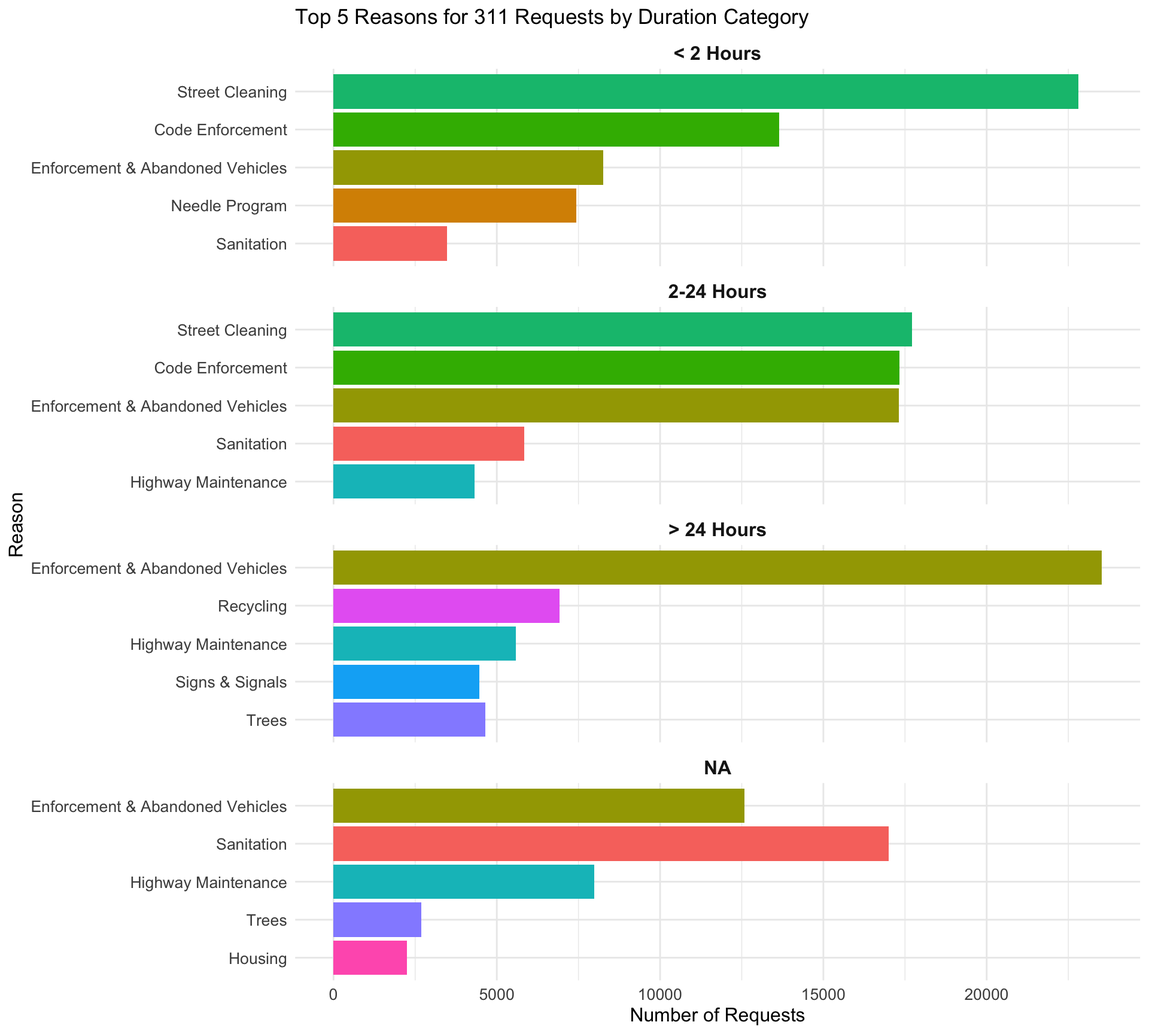
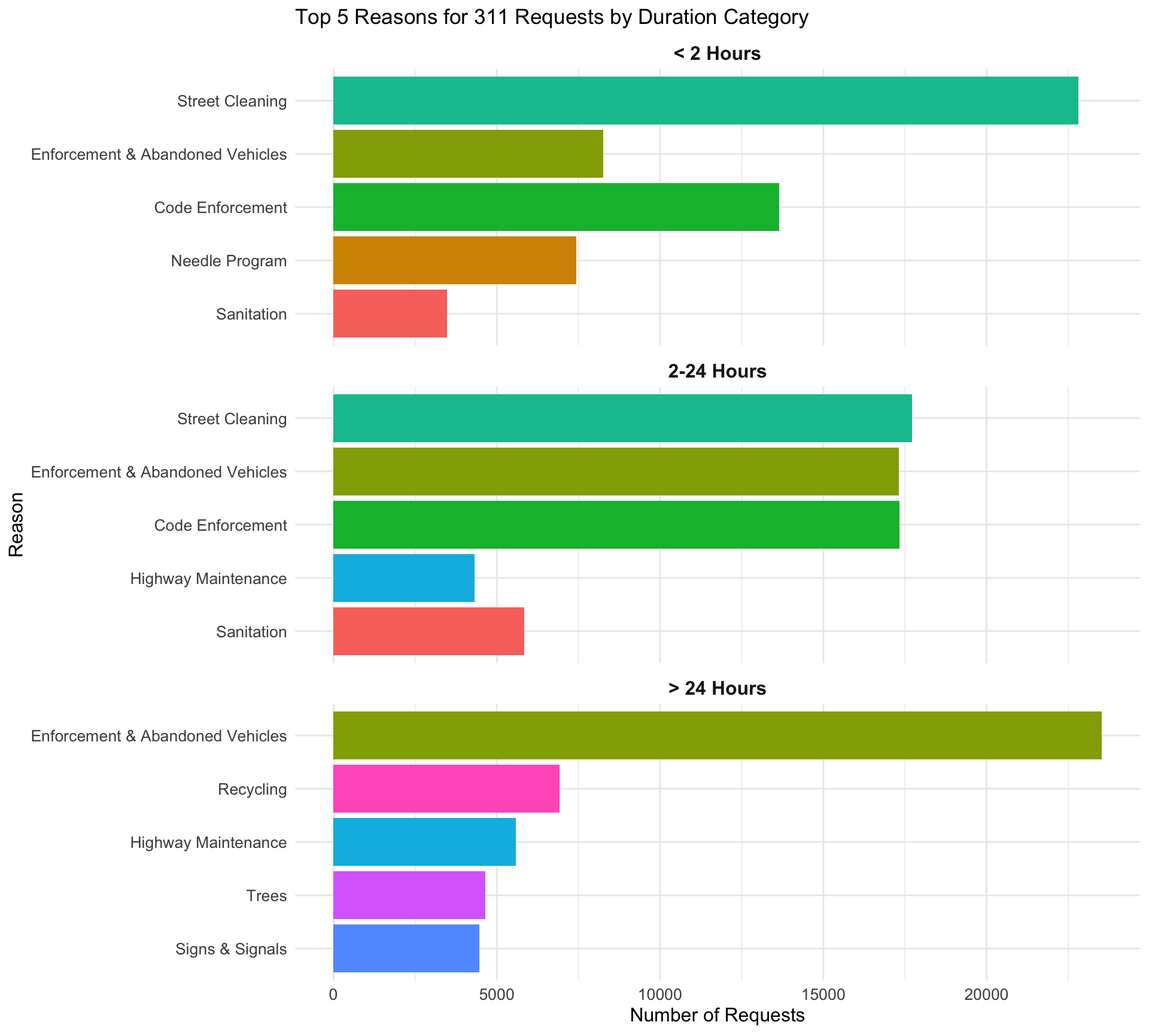
conclusion

diff --git a/docs/results.html b/docs/results.html
@@ -521,22 +521,25 @@ pre > code.sourceCode > span > a:first-child::before { text-decoration: underlin
 <span id="cb9-24"><a href="#cb9-24" aria-hidden="true" tabindex="-1"></a>  <span class="fu">mutate</span>(<span class="at">reason =</span> <span class="fu">fct_reorder</span>(reason, count)) <span class="sc">|&gt;</span></span>
 <span id="cb9-25"><a href="#cb9-25" aria-hidden="true" tabindex="-1"></a>  <span class="fu">ungroup</span>()</span>
 <span id="cb9-26"><a href="#cb9-26" aria-hidden="true" tabindex="-1"></a></span>
-<span id="cb9-27"><a href="#cb9-27" aria-hidden="true" tabindex="-1"></a><span class="co"># 3. Create the faceted bar chart</span></span>
-<span id="cb9-28"><a href="#cb9-28" aria-hidden="true" tabindex="-1"></a><span class="fu">ggplot</span>(top_reasons, <span class="fu">aes</span>(<span class="at">x =</span> <span class="fu">fct_reorder</span>(reason, count), <span class="at">y =</span> count, <span class="at">fill =</span> reason)) <span class="sc">+</span></span>
-<span id="cb9-29"><a href="#cb9-29" aria-hidden="true" tabindex="-1"></a>  <span class="fu">geom_bar</span>(<span class="at">stat =</span> <span class="st">"identity"</span>, <span class="at">show.legend =</span> <span class="cn">FALSE</span>) <span class="sc">+</span>          <span class="co"># Create bars without legend</span></span>
-<span id="cb9-30"><a href="#cb9-30" aria-hidden="true" tabindex="-1"></a>  <span class="fu">facet_wrap</span>(<span class="sc">~</span> duration_category, <span class="at">scales =</span> <span class="st">"free_y"</span>, <span class="at">ncol=</span><span class="dv">1</span>) <span class="sc">+</span>        <span class="co"># Facet by duration category with free y-scales</span></span>
-<span id="cb9-31"><a href="#cb9-31" aria-hidden="true" tabindex="-1"></a>  <span class="fu">coord_flip</span>() <span class="sc">+</span>                                              <span class="co"># Flip coordinates for better readability</span></span>
-<span id="cb9-32"><a href="#cb9-32" aria-hidden="true" tabindex="-1"></a>  <span class="fu">labs</span>(</span>
-<span id="cb9-33"><a href="#cb9-33" aria-hidden="true" tabindex="-1"></a>    <span class="at">title =</span> <span class="st">"Top 5 Reasons for 311 Requests by Duration Category"</span>,</span>
-<span id="cb9-34"><a href="#cb9-34" aria-hidden="true" tabindex="-1"></a>    <span class="at">x =</span> <span class="st">"Reason"</span>,</span>
-<span id="cb9-35"><a href="#cb9-35" aria-hidden="true" tabindex="-1"></a>    <span class="at">y =</span> <span class="st">"Number of Requests"</span></span>
-<span id="cb9-36"><a href="#cb9-36" aria-hidden="true" tabindex="-1"></a>  ) <span class="sc">+</span></span>
-<span id="cb9-37"><a href="#cb9-37" aria-hidden="true" tabindex="-1"></a>  <span class="fu">theme_minimal</span>() <span class="sc">+</span>                                           <span class="co"># Use a minimal theme</span></span>
-<span id="cb9-38"><a href="#cb9-38" aria-hidden="true" tabindex="-1"></a>  <span class="fu">theme</span>(</span>
-<span id="cb9-39"><a href="#cb9-39" aria-hidden="true" tabindex="-1"></a>    <span class="at">strip.text =</span> <span class="fu">element_text</span>(<span class="at">size =</span> <span class="dv">12</span>, <span class="at">face =</span> <span class="st">"bold"</span>),     <span class="co"># Style facet labels</span></span>
-<span id="cb9-40"><a href="#cb9-40" aria-hidden="true" tabindex="-1"></a>    <span class="at">axis.text =</span> <span class="fu">element_text</span>(<span class="at">size =</span> <span class="dv">10</span>),</span>
-<span id="cb9-41"><a href="#cb9-41" aria-hidden="true" tabindex="-1"></a>    <span class="at">axis.title =</span> <span class="fu">element_text</span>(<span class="at">size =</span> <span class="dv">12</span>)</span>
-<span id="cb9-42"><a href="#cb9-42" aria-hidden="true" tabindex="-1"></a>  )</span></code><button title="Copy to Clipboard" class="code-copy-button"><i class="bi"></i></button></pre></div>
+<span id="cb9-27"><a href="#cb9-27" aria-hidden="true" tabindex="-1"></a>top_reasons <span class="ot">&lt;-</span> top_reasons <span class="sc">|&gt;</span></span>
+<span id="cb9-28"><a href="#cb9-28" aria-hidden="true" tabindex="-1"></a>  <span class="fu">filter</span>(<span class="sc">!</span><span class="fu">is.na</span>(duration_category))</span>
+<span id="cb9-29"><a href="#cb9-29" aria-hidden="true" tabindex="-1"></a></span>
+<span id="cb9-30"><a href="#cb9-30" aria-hidden="true" tabindex="-1"></a><span class="co"># 3. Create the faceted bar chart</span></span>
+<span id="cb9-31"><a href="#cb9-31" aria-hidden="true" tabindex="-1"></a><span class="fu">ggplot</span>(top_reasons, <span class="fu">aes</span>(<span class="at">x =</span> <span class="fu">fct_reorder</span>(reason, count), <span class="at">y =</span> count, <span class="at">fill =</span> reason)) <span class="sc">+</span></span>
+<span id="cb9-32"><a href="#cb9-32" aria-hidden="true" tabindex="-1"></a>  <span class="fu">geom_bar</span>(<span class="at">stat =</span> <span class="st">"identity"</span>, <span class="at">show.legend =</span> <span class="cn">FALSE</span>) <span class="sc">+</span>          <span class="co"># Create bars without legend</span></span>
+<span id="cb9-33"><a href="#cb9-33" aria-hidden="true" tabindex="-1"></a>  <span class="fu">facet_wrap</span>(<span class="sc">~</span> duration_category, <span class="at">scales =</span> <span class="st">"free_y"</span>, <span class="at">ncol=</span><span class="dv">1</span>) <span class="sc">+</span>        <span class="co"># Facet by duration category with free y-scales</span></span>
+<span id="cb9-34"><a href="#cb9-34" aria-hidden="true" tabindex="-1"></a>  <span class="fu">coord_flip</span>() <span class="sc">+</span>                                              <span class="co"># Flip coordinates for better readability</span></span>
+<span id="cb9-35"><a href="#cb9-35" aria-hidden="true" tabindex="-1"></a>  <span class="fu">labs</span>(</span>
+<span id="cb9-36"><a href="#cb9-36" aria-hidden="true" tabindex="-1"></a>    <span class="at">title =</span> <span class="st">"Top 5 Reasons for 311 Requests by Duration Category"</span>,</span>
+<span id="cb9-37"><a href="#cb9-37" aria-hidden="true" tabindex="-1"></a>    <span class="at">x =</span> <span class="st">"Reason"</span>,</span>
+<span id="cb9-38"><a href="#cb9-38" aria-hidden="true" tabindex="-1"></a>    <span class="at">y =</span> <span class="st">"Number of Requests"</span></span>
+<span id="cb9-39"><a href="#cb9-39" aria-hidden="true" tabindex="-1"></a>  ) <span class="sc">+</span></span>
+<span id="cb9-40"><a href="#cb9-40" aria-hidden="true" tabindex="-1"></a>  <span class="fu">theme_minimal</span>() <span class="sc">+</span>                                           <span class="co"># Use a minimal theme</span></span>
+<span id="cb9-41"><a href="#cb9-41" aria-hidden="true" tabindex="-1"></a>  <span class="fu">theme</span>(</span>
+<span id="cb9-42"><a href="#cb9-42" aria-hidden="true" tabindex="-1"></a>    <span class="at">strip.text =</span> <span class="fu">element_text</span>(<span class="at">size =</span> <span class="dv">12</span>, <span class="at">face =</span> <span class="st">"bold"</span>),     <span class="co"># Style facet labels</span></span>
+<span id="cb9-43"><a href="#cb9-43" aria-hidden="true" tabindex="-1"></a>    <span class="at">axis.text =</span> <span class="fu">element_text</span>(<span class="at">size =</span> <span class="dv">10</span>),</span>
+<span id="cb9-44"><a href="#cb9-44" aria-hidden="true" tabindex="-1"></a>    <span class="at">axis.title =</span> <span class="fu">element_text</span>(<span class="at">size =</span> <span class="dv">12</span>)</span>
+<span id="cb9-45"><a href="#cb9-45" aria-hidden="true" tabindex="-1"></a>  )</span></code><button title="Copy to Clipboard" class="code-copy-button"><i class="bi"></i></button></pre></div>
 </details>
 <div class="cell-output-display">
 <div>
@@ -563,43 +566,42 @@ pre > code.sourceCode > span > a:first-child::before { text-decoration: underlin
 <span id="cb10-4"><a href="#cb10-4" aria-hidden="true" tabindex="-1"></a></span>
 <span id="cb10-5"><a href="#cb10-5" aria-hidden="true" tabindex="-1"></a>requests_by_nh <span class="ot">&lt;-</span> requests_by_nh <span class="sc">|&gt;</span></span>
 <span id="cb10-6"><a href="#cb10-6" aria-hidden="true" tabindex="-1"></a>  <span class="fu">mutate</span>(<span class="at">neighborhood =</span> <span class="fu">case_when</span>(</span>
-<span id="cb10-7"><a href="#cb10-7" aria-hidden="true" tabindex="-1"></a>    neighborhood <span class="sc">==</span> <span class="st">"Allston / Brighton"</span> <span class="sc">~</span> <span class="st">"Brighton"</span>,</span>
-<span id="cb10-8"><a href="#cb10-8" aria-hidden="true" tabindex="-1"></a>    neighborhood <span class="sc">==</span> <span class="st">"Fenway / Kenmore / Audubon Circle / Longwood"</span> <span class="sc">~</span> <span class="st">"Fenway"</span>,</span>
-<span id="cb10-9"><a href="#cb10-9" aria-hidden="true" tabindex="-1"></a>    neighborhood <span class="sc">==</span> <span class="st">"South Boston / South Boston Waterfront"</span> <span class="sc">~</span> <span class="st">"South Boston"</span>,</span>
-<span id="cb10-10"><a href="#cb10-10" aria-hidden="true" tabindex="-1"></a>    <span class="cn">TRUE</span> <span class="sc">~</span> neighborhood  <span class="co"># Keep other values unchanged</span></span>
-<span id="cb10-11"><a href="#cb10-11" aria-hidden="true" tabindex="-1"></a>  ))</span>
-<span id="cb10-12"><a href="#cb10-12" aria-hidden="true" tabindex="-1"></a></span>
-<span id="cb10-13"><a href="#cb10-13" aria-hidden="true" tabindex="-1"></a>boston_geo <span class="ot">&lt;-</span> <span class="fu">st_read</span>(<span class="st">"~/Desktop/EDAV/Boston_Neighborhoods.geojson"</span>, <span class="at">quiet =</span> <span class="cn">TRUE</span>)</span>
-<span id="cb10-14"><a href="#cb10-14" aria-hidden="true" tabindex="-1"></a></span>
-<span id="cb10-15"><a href="#cb10-15" aria-hidden="true" tabindex="-1"></a><span class="co"># Make all geometries valid</span></span>
-<span id="cb10-16"><a href="#cb10-16" aria-hidden="true" tabindex="-1"></a>boston_geo <span class="ot">&lt;-</span> <span class="fu">st_make_valid</span>(boston_geo)</span>
-<span id="cb10-17"><a href="#cb10-17" aria-hidden="true" tabindex="-1"></a>boston_geo <span class="ot">&lt;-</span> boston_geo <span class="sc">|&gt;</span> <span class="fu">rename</span>(<span class="at">neighborhood =</span> Name)</span>
-<span id="cb10-18"><a href="#cb10-18" aria-hidden="true" tabindex="-1"></a></span>
-<span id="cb10-19"><a href="#cb10-19" aria-hidden="true" tabindex="-1"></a>boston_geo_joined <span class="ot">&lt;-</span> boston_geo <span class="sc">|&gt;</span></span>
-<span id="cb10-20"><a href="#cb10-20" aria-hidden="true" tabindex="-1"></a>  <span class="fu">left_join</span>(requests_by_nh, <span class="at">by =</span> <span class="st">"neighborhood"</span>)</span>
+<span id="cb10-7"><a href="#cb10-7" aria-hidden="true" tabindex="-1"></a>    neighborhood <span class="sc">==</span> <span class="st">"Fenway / Kenmore / Audubon Circle / Longwood"</span> <span class="sc">~</span> <span class="st">"Fenway"</span>,</span>
+<span id="cb10-8"><a href="#cb10-8" aria-hidden="true" tabindex="-1"></a>    neighborhood <span class="sc">==</span> <span class="st">"South Boston / South Boston Waterfront"</span> <span class="sc">~</span> <span class="st">"South Boston"</span>,</span>
+<span id="cb10-9"><a href="#cb10-9" aria-hidden="true" tabindex="-1"></a>    <span class="cn">TRUE</span> <span class="sc">~</span> neighborhood  <span class="co"># Keep other values unchanged</span></span>
+<span id="cb10-10"><a href="#cb10-10" aria-hidden="true" tabindex="-1"></a>  ))</span>
+<span id="cb10-11"><a href="#cb10-11" aria-hidden="true" tabindex="-1"></a></span>
+<span id="cb10-12"><a href="#cb10-12" aria-hidden="true" tabindex="-1"></a>boston_geo <span class="ot">&lt;-</span> <span class="fu">st_read</span>(<span class="st">"~/Desktop/EDAV/Boston_Neighborhoods.geojson"</span>, <span class="at">quiet =</span> <span class="cn">TRUE</span>)</span>
+<span id="cb10-13"><a href="#cb10-13" aria-hidden="true" tabindex="-1"></a></span>
+<span id="cb10-14"><a href="#cb10-14" aria-hidden="true" tabindex="-1"></a><span class="co"># Make all geometries valid</span></span>
+<span id="cb10-15"><a href="#cb10-15" aria-hidden="true" tabindex="-1"></a>boston_geo <span class="ot">&lt;-</span> <span class="fu">st_make_valid</span>(boston_geo)</span>
+<span id="cb10-16"><a href="#cb10-16" aria-hidden="true" tabindex="-1"></a>boston_geo <span class="ot">&lt;-</span> boston_geo <span class="sc">|&gt;</span> <span class="fu">rename</span>(<span class="at">neighborhood =</span> Name)</span>
+<span id="cb10-17"><a href="#cb10-17" aria-hidden="true" tabindex="-1"></a></span>
+<span id="cb10-18"><a href="#cb10-18" aria-hidden="true" tabindex="-1"></a>boston_geo_joined <span class="ot">&lt;-</span> boston_geo <span class="sc">|&gt;</span></span>
+<span id="cb10-19"><a href="#cb10-19" aria-hidden="true" tabindex="-1"></a>  <span class="fu">left_join</span>(requests_by_nh, <span class="at">by =</span> <span class="st">"neighborhood"</span>)</span>
+<span id="cb10-20"><a href="#cb10-20" aria-hidden="true" tabindex="-1"></a></span>
 <span id="cb10-21"><a href="#cb10-21" aria-hidden="true" tabindex="-1"></a></span>
-<span id="cb10-22"><a href="#cb10-22" aria-hidden="true" tabindex="-1"></a></span>
-<span id="cb10-23"><a href="#cb10-23" aria-hidden="true" tabindex="-1"></a><span class="co"># Centroid points from the sf object</span></span>
-<span id="cb10-24"><a href="#cb10-24" aria-hidden="true" tabindex="-1"></a>centroids <span class="ot">&lt;-</span> <span class="fu">st_centroid</span>(boston_geo_joined)</span>
-<span id="cb10-25"><a href="#cb10-25" aria-hidden="true" tabindex="-1"></a></span>
-<span id="cb10-26"><a href="#cb10-26" aria-hidden="true" tabindex="-1"></a><span class="co"># Extract coordinates</span></span>
-<span id="cb10-27"><a href="#cb10-27" aria-hidden="true" tabindex="-1"></a>centroids_coords <span class="ot">&lt;-</span> <span class="fu">st_coordinates</span>(centroids)</span>
-<span id="cb10-28"><a href="#cb10-28" aria-hidden="true" tabindex="-1"></a>centroids_df <span class="ot">&lt;-</span> <span class="fu">cbind</span>(boston_geo_joined, centroids_coords)</span>
-<span id="cb10-29"><a href="#cb10-29" aria-hidden="true" tabindex="-1"></a></span>
-<span id="cb10-30"><a href="#cb10-30" aria-hidden="true" tabindex="-1"></a><span class="co"># centroids_df now contains all original data plus X and Y columns for the centroid coordinates</span></span>
-<span id="cb10-31"><a href="#cb10-31" aria-hidden="true" tabindex="-1"></a><span class="fu">ggplot</span>() <span class="sc">+</span></span>
-<span id="cb10-32"><a href="#cb10-32" aria-hidden="true" tabindex="-1"></a>  <span class="fu">geom_sf</span>(<span class="at">data =</span> boston_geo_joined, <span class="fu">aes</span>(<span class="at">fill =</span> request_count),</span>
-<span id="cb10-33"><a href="#cb10-33" aria-hidden="true" tabindex="-1"></a>          <span class="at">color =</span> <span class="st">"white"</span>, <span class="at">size =</span> <span class="fl">0.2</span>) <span class="sc">+</span></span>
-<span id="cb10-34"><a href="#cb10-34" aria-hidden="true" tabindex="-1"></a>  <span class="co"># Use geom_text_repel with coordinates extracted from centroids</span></span>
-<span id="cb10-35"><a href="#cb10-35" aria-hidden="true" tabindex="-1"></a>  <span class="fu">geom_text_repel</span>(<span class="at">data =</span> centroids_df, </span>
-<span id="cb10-36"><a href="#cb10-36" aria-hidden="true" tabindex="-1"></a>                  <span class="fu">aes</span>(<span class="at">x =</span> X, <span class="at">y =</span> Y, <span class="at">label =</span> neighborhood),</span>
-<span id="cb10-37"><a href="#cb10-37" aria-hidden="true" tabindex="-1"></a>                  <span class="at">size =</span> <span class="dv">3</span>, <span class="at">color =</span> <span class="st">"black"</span>, </span>
-<span id="cb10-38"><a href="#cb10-38" aria-hidden="true" tabindex="-1"></a>                  <span class="at">box.padding =</span> <span class="fl">0.3</span>, </span>
-<span id="cb10-39"><a href="#cb10-39" aria-hidden="true" tabindex="-1"></a>                  <span class="at">point.padding =</span> <span class="fl">0.3</span>) <span class="sc">+</span></span>
-<span id="cb10-40"><a href="#cb10-40" aria-hidden="true" tabindex="-1"></a>  <span class="fu">scale_fill_viridis_c</span>(<span class="at">option =</span> <span class="st">"plasma"</span>, <span class="at">na.value =</span> <span class="st">"gray90"</span>) <span class="sc">+</span></span>
-<span id="cb10-41"><a href="#cb10-41" aria-hidden="true" tabindex="-1"></a>  <span class="fu">theme_minimal</span>() <span class="sc">+</span></span>
-<span id="cb10-42"><a href="#cb10-42" aria-hidden="true" tabindex="-1"></a>  <span class="fu">labs</span>(<span class="at">title =</span> <span class="st">"311 Requests by Neighborhood in Boston"</span>,</span>
-<span id="cb10-43"><a href="#cb10-43" aria-hidden="true" tabindex="-1"></a>       <span class="at">fill =</span> <span class="st">"Number of Requests"</span>)</span></code><button title="Copy to Clipboard" class="code-copy-button"><i class="bi"></i></button></pre></div>
+<span id="cb10-22"><a href="#cb10-22" aria-hidden="true" tabindex="-1"></a><span class="co"># Centroid points from the sf object</span></span>
+<span id="cb10-23"><a href="#cb10-23" aria-hidden="true" tabindex="-1"></a>centroids <span class="ot">&lt;-</span> <span class="fu">st_centroid</span>(boston_geo_joined)</span>
+<span id="cb10-24"><a href="#cb10-24" aria-hidden="true" tabindex="-1"></a></span>
+<span id="cb10-25"><a href="#cb10-25" aria-hidden="true" tabindex="-1"></a><span class="co"># Extract coordinates</span></span>
+<span id="cb10-26"><a href="#cb10-26" aria-hidden="true" tabindex="-1"></a>centroids_coords <span class="ot">&lt;-</span> <span class="fu">st_coordinates</span>(centroids)</span>
+<span id="cb10-27"><a href="#cb10-27" aria-hidden="true" tabindex="-1"></a>centroids_df <span class="ot">&lt;-</span> <span class="fu">cbind</span>(boston_geo_joined, centroids_coords)</span>
+<span id="cb10-28"><a href="#cb10-28" aria-hidden="true" tabindex="-1"></a></span>
+<span id="cb10-29"><a href="#cb10-29" aria-hidden="true" tabindex="-1"></a><span class="co"># centroids_df now contains all original data plus X and Y columns for the centroid coordinates</span></span>
+<span id="cb10-30"><a href="#cb10-30" aria-hidden="true" tabindex="-1"></a><span class="fu">ggplot</span>() <span class="sc">+</span></span>
+<span id="cb10-31"><a href="#cb10-31" aria-hidden="true" tabindex="-1"></a>  <span class="fu">geom_sf</span>(<span class="at">data =</span> boston_geo_joined, <span class="fu">aes</span>(<span class="at">fill =</span> request_count),</span>
+<span id="cb10-32"><a href="#cb10-32" aria-hidden="true" tabindex="-1"></a>          <span class="at">color =</span> <span class="st">"white"</span>, <span class="at">size =</span> <span class="fl">0.2</span>) <span class="sc">+</span></span>
+<span id="cb10-33"><a href="#cb10-33" aria-hidden="true" tabindex="-1"></a>  <span class="co"># Use geom_text_repel with coordinates extracted from centroids</span></span>
+<span id="cb10-34"><a href="#cb10-34" aria-hidden="true" tabindex="-1"></a>  <span class="fu">geom_text_repel</span>(<span class="at">data =</span> centroids_df, </span>
+<span id="cb10-35"><a href="#cb10-35" aria-hidden="true" tabindex="-1"></a>                  <span class="fu">aes</span>(<span class="at">x =</span> X, <span class="at">y =</span> Y, <span class="at">label =</span> neighborhood),</span>
+<span id="cb10-36"><a href="#cb10-36" aria-hidden="true" tabindex="-1"></a>                  <span class="at">size =</span> <span class="dv">3</span>, <span class="at">color =</span> <span class="st">"black"</span>, </span>
+<span id="cb10-37"><a href="#cb10-37" aria-hidden="true" tabindex="-1"></a>                  <span class="at">box.padding =</span> <span class="fl">0.3</span>, </span>
+<span id="cb10-38"><a href="#cb10-38" aria-hidden="true" tabindex="-1"></a>                  <span class="at">point.padding =</span> <span class="fl">0.3</span>) <span class="sc">+</span></span>
+<span id="cb10-39"><a href="#cb10-39" aria-hidden="true" tabindex="-1"></a>  <span class="fu">scale_fill_viridis_c</span>(<span class="at">option =</span> <span class="st">"plasma"</span>, <span class="at">na.value =</span> <span class="st">"gray90"</span>) <span class="sc">+</span></span>
+<span id="cb10-40"><a href="#cb10-40" aria-hidden="true" tabindex="-1"></a>  <span class="fu">theme_minimal</span>() <span class="sc">+</span></span>
+<span id="cb10-41"><a href="#cb10-41" aria-hidden="true" tabindex="-1"></a>  <span class="fu">labs</span>(<span class="at">title =</span> <span class="st">"311 Requests by Neighborhood in Boston"</span>,</span>
+<span id="cb10-42"><a href="#cb10-42" aria-hidden="true" tabindex="-1"></a>       <span class="at">fill =</span> <span class="st">"Number of Requests"</span>)</span></code><button title="Copy to Clipboard" class="code-copy-button"><i class="bi"></i></button></pre></div>
 </details>
 <div class="cell-output-display">
 <div>
@@ -609,6 +611,7 @@ pre > code.sourceCode > span > a:first-child::before { text-decoration: underlin
 </div>
 </div>
 </div>
+<p>Note: This geojson file of Boston is from a third party source (https://github.com/blackmad/neighborhoods/blob/master/boston.geojson), which is why some neighborhoods are not colored.</p>
 <p>Dorchester clearly stands out with the highest volume of 311 requests, surpassing 36,000 and significantly outpacing all other neighborhoods. Roxbury, South Boston, and Jamaica Plain follow with substantial request counts, each registering over 20,000. Meanwhile, more central neighborhoods such as the South End, East Boston, and Jamaica Plain also record considerable activity, reflecting ongoing demands for city services and infrastructure support. Although areas like Back Bay and Downtown/Financial District report fewer requests relative to the top performers, their numbers still exceed 10,000, indicating that no part of the city is without frequent resident needs.</p>
 <p>This raises an important question: does the volume of requests in a neighborhood correlate with how quickly they are resolved? Exploring the relationship between neighborhood request density and resolution times can provide valuable insights into the city’s resource allocation and service efficiency.</p>
 <div class="cell">

diff --git a/docs/conclusion.html b/docs/conclusion.html
@@ -143,8 +143,16 @@ ul.task-list li input[type="checkbox"] {
 </nav>
 <div id="quarto-sidebar-glass" class="quarto-sidebar-collapse-item" data-bs-toggle="collapse" data-bs-target=".quarto-sidebar-collapse-item"></div>
 <!-- margin-sidebar -->
-    <div id="quarto-margin-sidebar" class="sidebar margin-sidebar zindex-bottom">
-        
+    <div id="quarto-margin-sidebar" class="sidebar margin-sidebar">
+        <nav id="TOC" role="doc-toc" class="toc-active">
+    <h2 id="toc-title">Table of contents</h2>
+   
+  <ul>
+  <li><a href="#key-takeaways" id="toc-key-takeaways" class="nav-link active" data-scroll-target="#key-takeaways"><span class="header-section-number">5.1</span> Key Takeaways</a></li>
+  <li><a href="#limitations" id="toc-limitations" class="nav-link" data-scroll-target="#limitations"><span class="header-section-number">5.2</span> Limitations</a></li>
+  <li><a href="#future-directions-and-lessons-learned" id="toc-future-directions-and-lessons-learned" class="nav-link" data-scroll-target="#future-directions-and-lessons-learned"><span class="header-section-number">5.3</span> Future Directions and Lessons Learned</a></li>
+  </ul>
+<div class="toc-actions"><ul><li><a href="https://github.com/shaifalic15/Boston-311-Service-Requests/edit/main/conclusion.qmd" class="toc-action"><i class="bi bi-github"></i>Edit this page</a></li><li><a href="https://github.com/shaifalic15/Boston-311-Service-Requests/issues/new" class="toc-action"><i class="bi empty"></i>Report an issue</a></li></ul></div></nav>
     </div>
 <!-- main -->
 <main class="content" id="quarto-document-content">
@@ -168,8 +176,28 @@ ul.task-list li input[type="checkbox"] {
 </header>
 
 
+<section id="key-takeaways" class="level2" data-number="5.1">
+<h2 data-number="5.1" class="anchored" data-anchor-id="key-takeaways"><span class="header-section-number">5.1</span> Key Takeaways</h2>
+<ol type="1">
+<li>The volume of requests throughout 2024 rose steadily, peaking in August—likely influenced by warmer weather and increased outdoor activity.</li>
+<li>The most frequent request category was “Enforcement &amp; Abandoned Vehicles,” largely driven by parking-related issues such as illegally parked cars.</li>
+<li>While many issues (e.g., street cleaning, trash collection) are typically resolved within 24 hours, certain requests—such as highway maintenance and abandoned vehicle removal—tend to require more time.</li>
+<li>Dorchester, situated just south of Downtown, generated the highest volume of service requests.</li>
+<li>Neighborhoods like West Roxbury and Roslindale recorded relatively long average resolution times, in contrast to the South End and South Boston Waterfront, which saw quicker resolutions—possibly reflecting differences in urban density and city-responsiveness.</li>
+</ol>
+</section>
+<section id="limitations" class="level2" data-number="5.2">
+<h2 data-number="5.2" class="anchored" data-anchor-id="limitations"><span class="header-section-number">5.2</span> Limitations</h2>
+<p>The dataset is incomplete for November and December 2024, potentially skewing trends toward earlier months. Additionally, the dataset did not come with its own .shp file, which is why the choropleth has some unfilled spaces.</p>
+</section>
+<section id="future-directions-and-lessons-learned" class="level2" data-number="5.3">
+<h2 data-number="5.3" class="anchored" data-anchor-id="future-directions-and-lessons-learned"><span class="header-section-number">5.3</span> Future Directions and Lessons Learned</h2>
+<p>Through this project, we gained valuable experience in using d3 and a variety of visualization techniques to explore and communicate data-driven insights. While our analysis focused on identifying patterns in the frequency and resolution of requests, there is significant potential to expand into more specific questions and areas of interest.</p>
+<p>For example, exploring the “closure_reason” and “case_title” columns with text analytics could provide deeper insights into the nature and outcomes of requests. Or, using the “location_street_name” column could reveal micro-trends and localized issues, informing targeted interventions.</p>
+<p>Insights from this analysis could be highly actionable for city officials and policymakers, enabling them to address key issues more effectively and improve overall city responsiveness. In conclusion, integrating additional layers of analysis and exploring new dimensions within the dataset, future work can provide a more comprehensive understanding of the city’s 311 system and its role in urban management.</p>
 
 
+</section>
 
 </main> <!-- /main -->
 <script id="quarto-html-after-body" type="application/javascript">
@@ -609,7 +637,7 @@ window.document.addEventListener("DOMContentLoaded", function (event) {
     </div>   
     <div class="nav-footer-center">
       &nbsp;
-    <div class="toc-actions"><ul><li><a href="https://github.com/shaifalic15/Boston-311-Service-Requests/edit/main/conclusion.qmd" class="toc-action"><i class="bi bi-github"></i>Edit this page</a></li><li><a href="https://github.com/shaifalic15/Boston-311-Service-Requests/issues/new" class="toc-action"><i class="bi empty"></i>Report an issue</a></li></ul></div></div>
+    <div class="toc-actions d-sm-block d-md-none"><ul><li><a href="https://github.com/shaifalic15/Boston-311-Service-Requests/edit/main/conclusion.qmd" class="toc-action"><i class="bi bi-github"></i>Edit this page</a></li><li><a href="https://github.com/shaifalic15/Boston-311-Service-Requests/issues/new" class="toc-action"><i class="bi empty"></i>Report an issue</a></li></ul></div></div>
     <div class="nav-footer-right">
 <p>This book was built with <a href="https://quarto.org/">Quarto</a>.</p>
 </div>

diff --git a/docs/index.html b/docs/index.html
@@ -193,7 +193,7 @@ ul.task-list li input[type="checkbox"] {
 <section id="introduction" class="level1" data-number="1">
 <h1 data-number="1"><span class="header-section-number">1</span> Introduction</h1>
 <p>Topic: Boston 311 Service Requests</p>
-<p>We chose the Boston 311 Service Requests topic because it offers a unique window into how a city addresses everyday challenges faced by its residents. From potholes to noise complaints, this data captures the pulse of Boston’s public services and the issues that matter most to its communities. By analyzing Boston 311 Service Requests dataset, we aim to uncover patterns in the types of service requests, their geographical distribution, and how efficiently they are resolved. For readers unfamiliar with 311 systems, they serve as a vital link between residents and city departments, enabling people to report non-emergency issues and request services. Exploring this data not only highlights the responsiveness of urban governance but also sheds light on potential areas for improvement in delivering public services effectively. To start, we are interested in identifying patterns related to the volume of requests, the reasons behind them, the neighborhoods they pertain to, and the departments responsible for addressing them.</p>
+<p>We chose the Boston 311 Service Requests topic because it offers a unique window into how a city addresses everyday challenges faced by its residents. From potholes to noise complaints, this data captures the pulse of Boston’s public services and the issues that matter most to its communities. By analyzing Boston 311 Service Requests dataset, we aim to uncover patterns in the types of service requests, their geographical distribution, and how efficiently they are resolved. For readers unfamiliar with 311 systems, they serve as a vital link between residents and city departments, enabling people to report non-emergency issues and request services. Exploring this data not only highlights the responsiveness of urban governance but also sheds light on potential areas for improvement in delivering public services effectively. This dataset has a lot to explore, so to keep a wide scope, we will try to explore around these questions: 1. When Do Residents Report Issues? 2. What Are the Reasons behind the Reports? 3. How Long Does It Take to Resolve Issues? 4. What Neighborhoods Are Requests Coming From?</p>
 
 
 </section>
